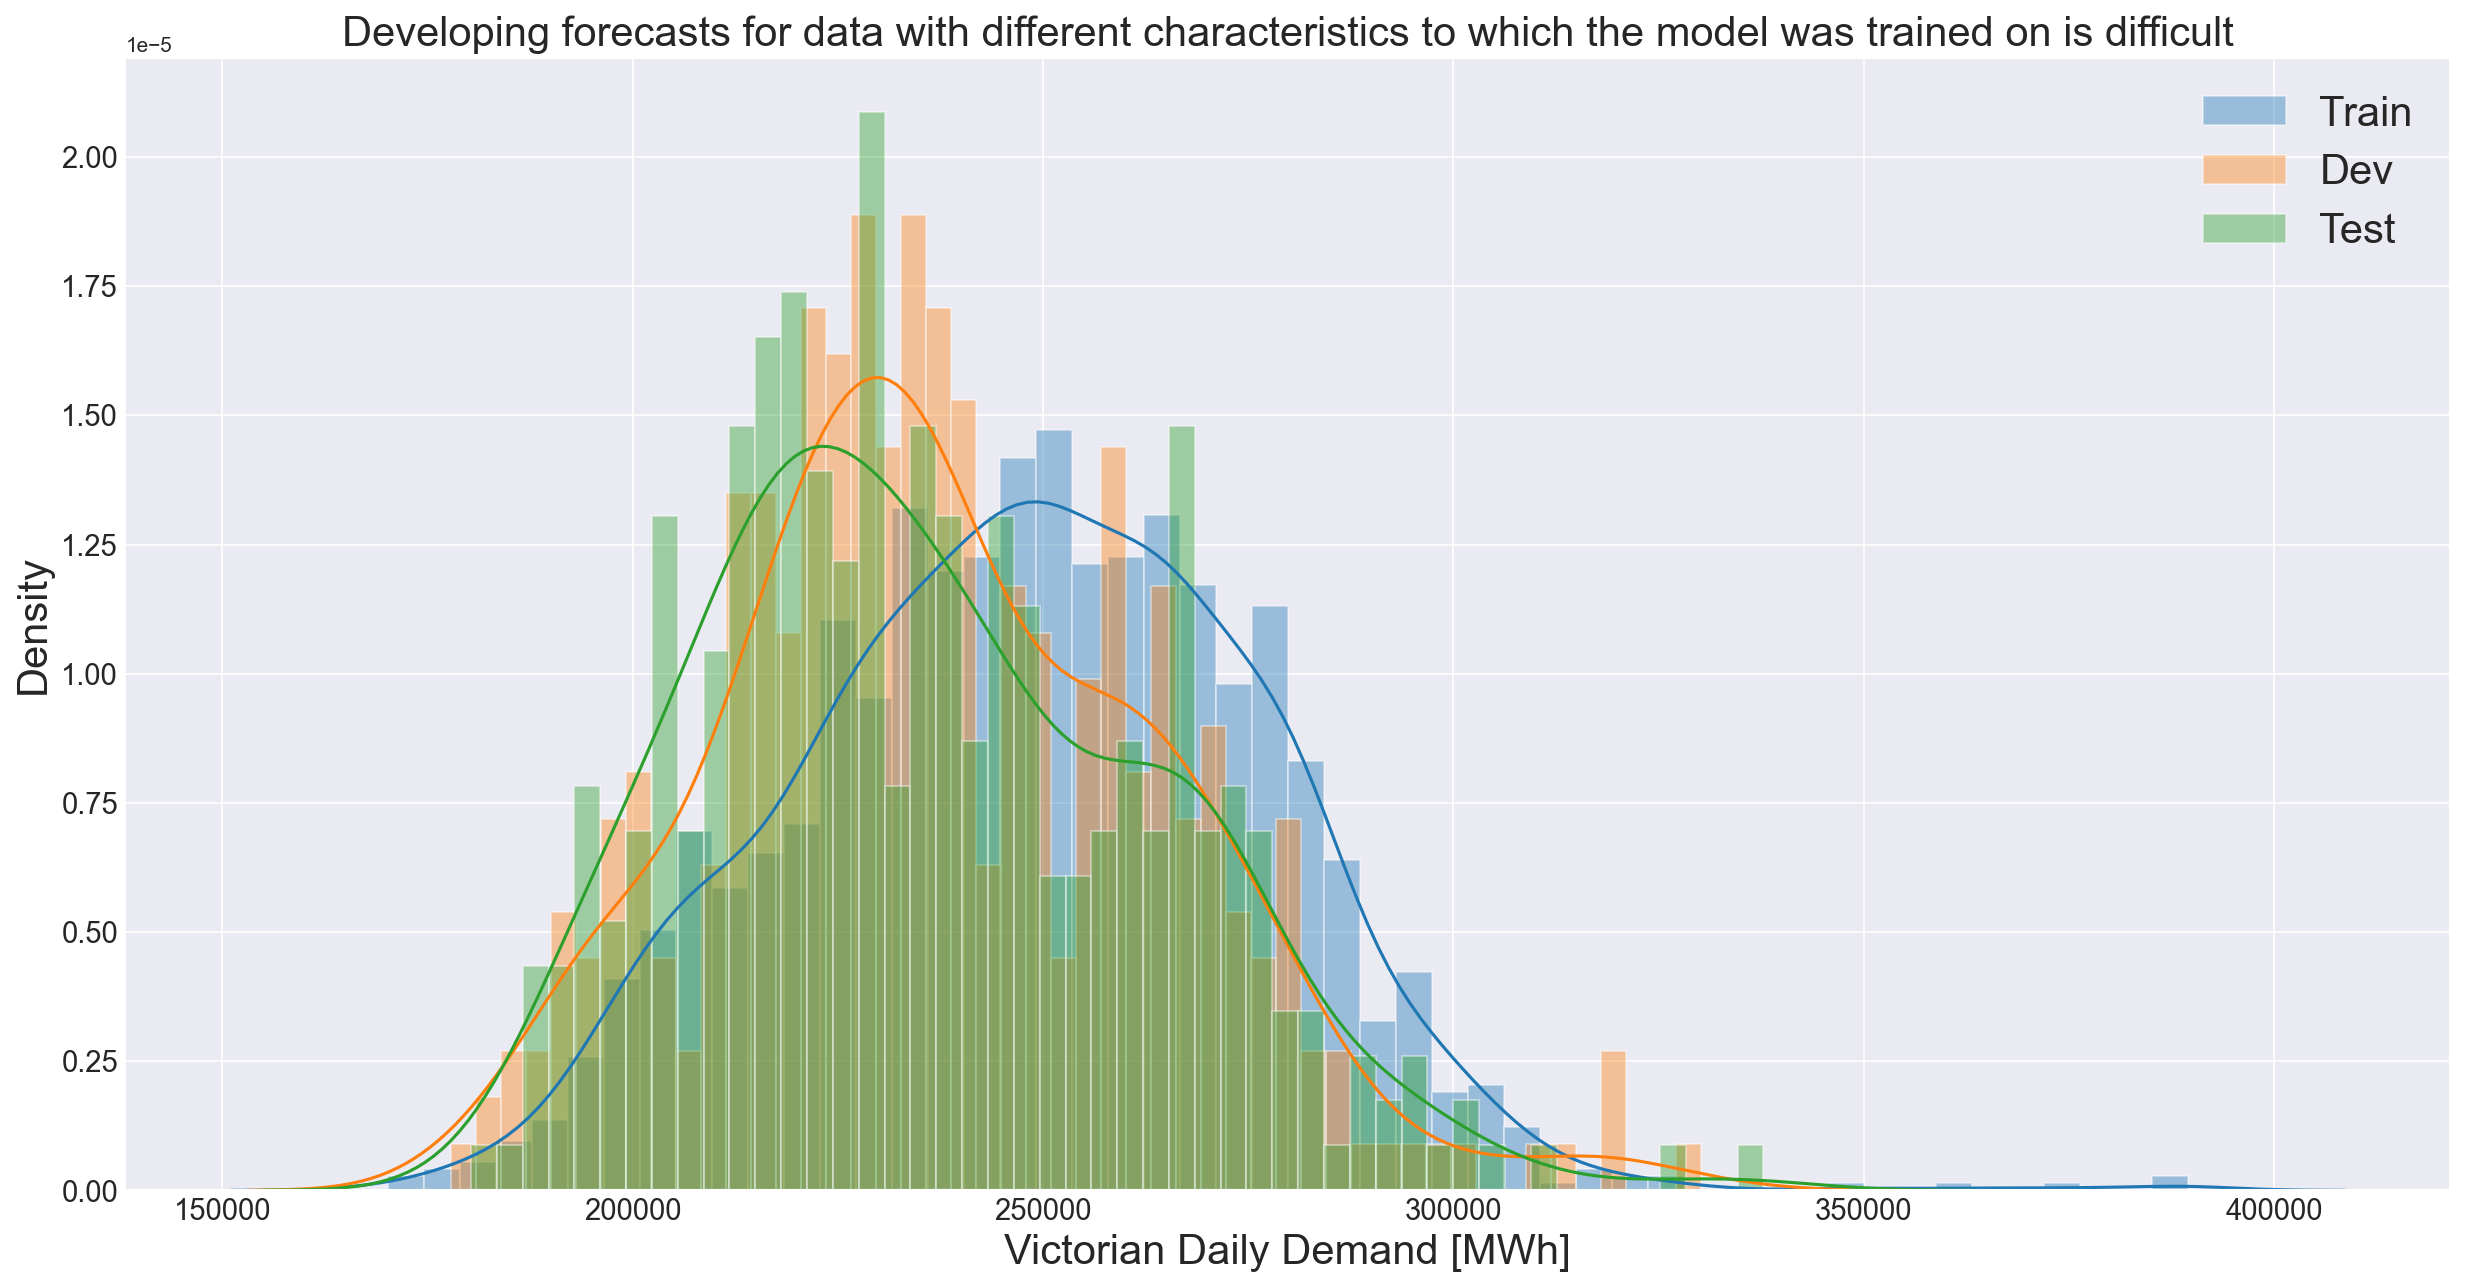
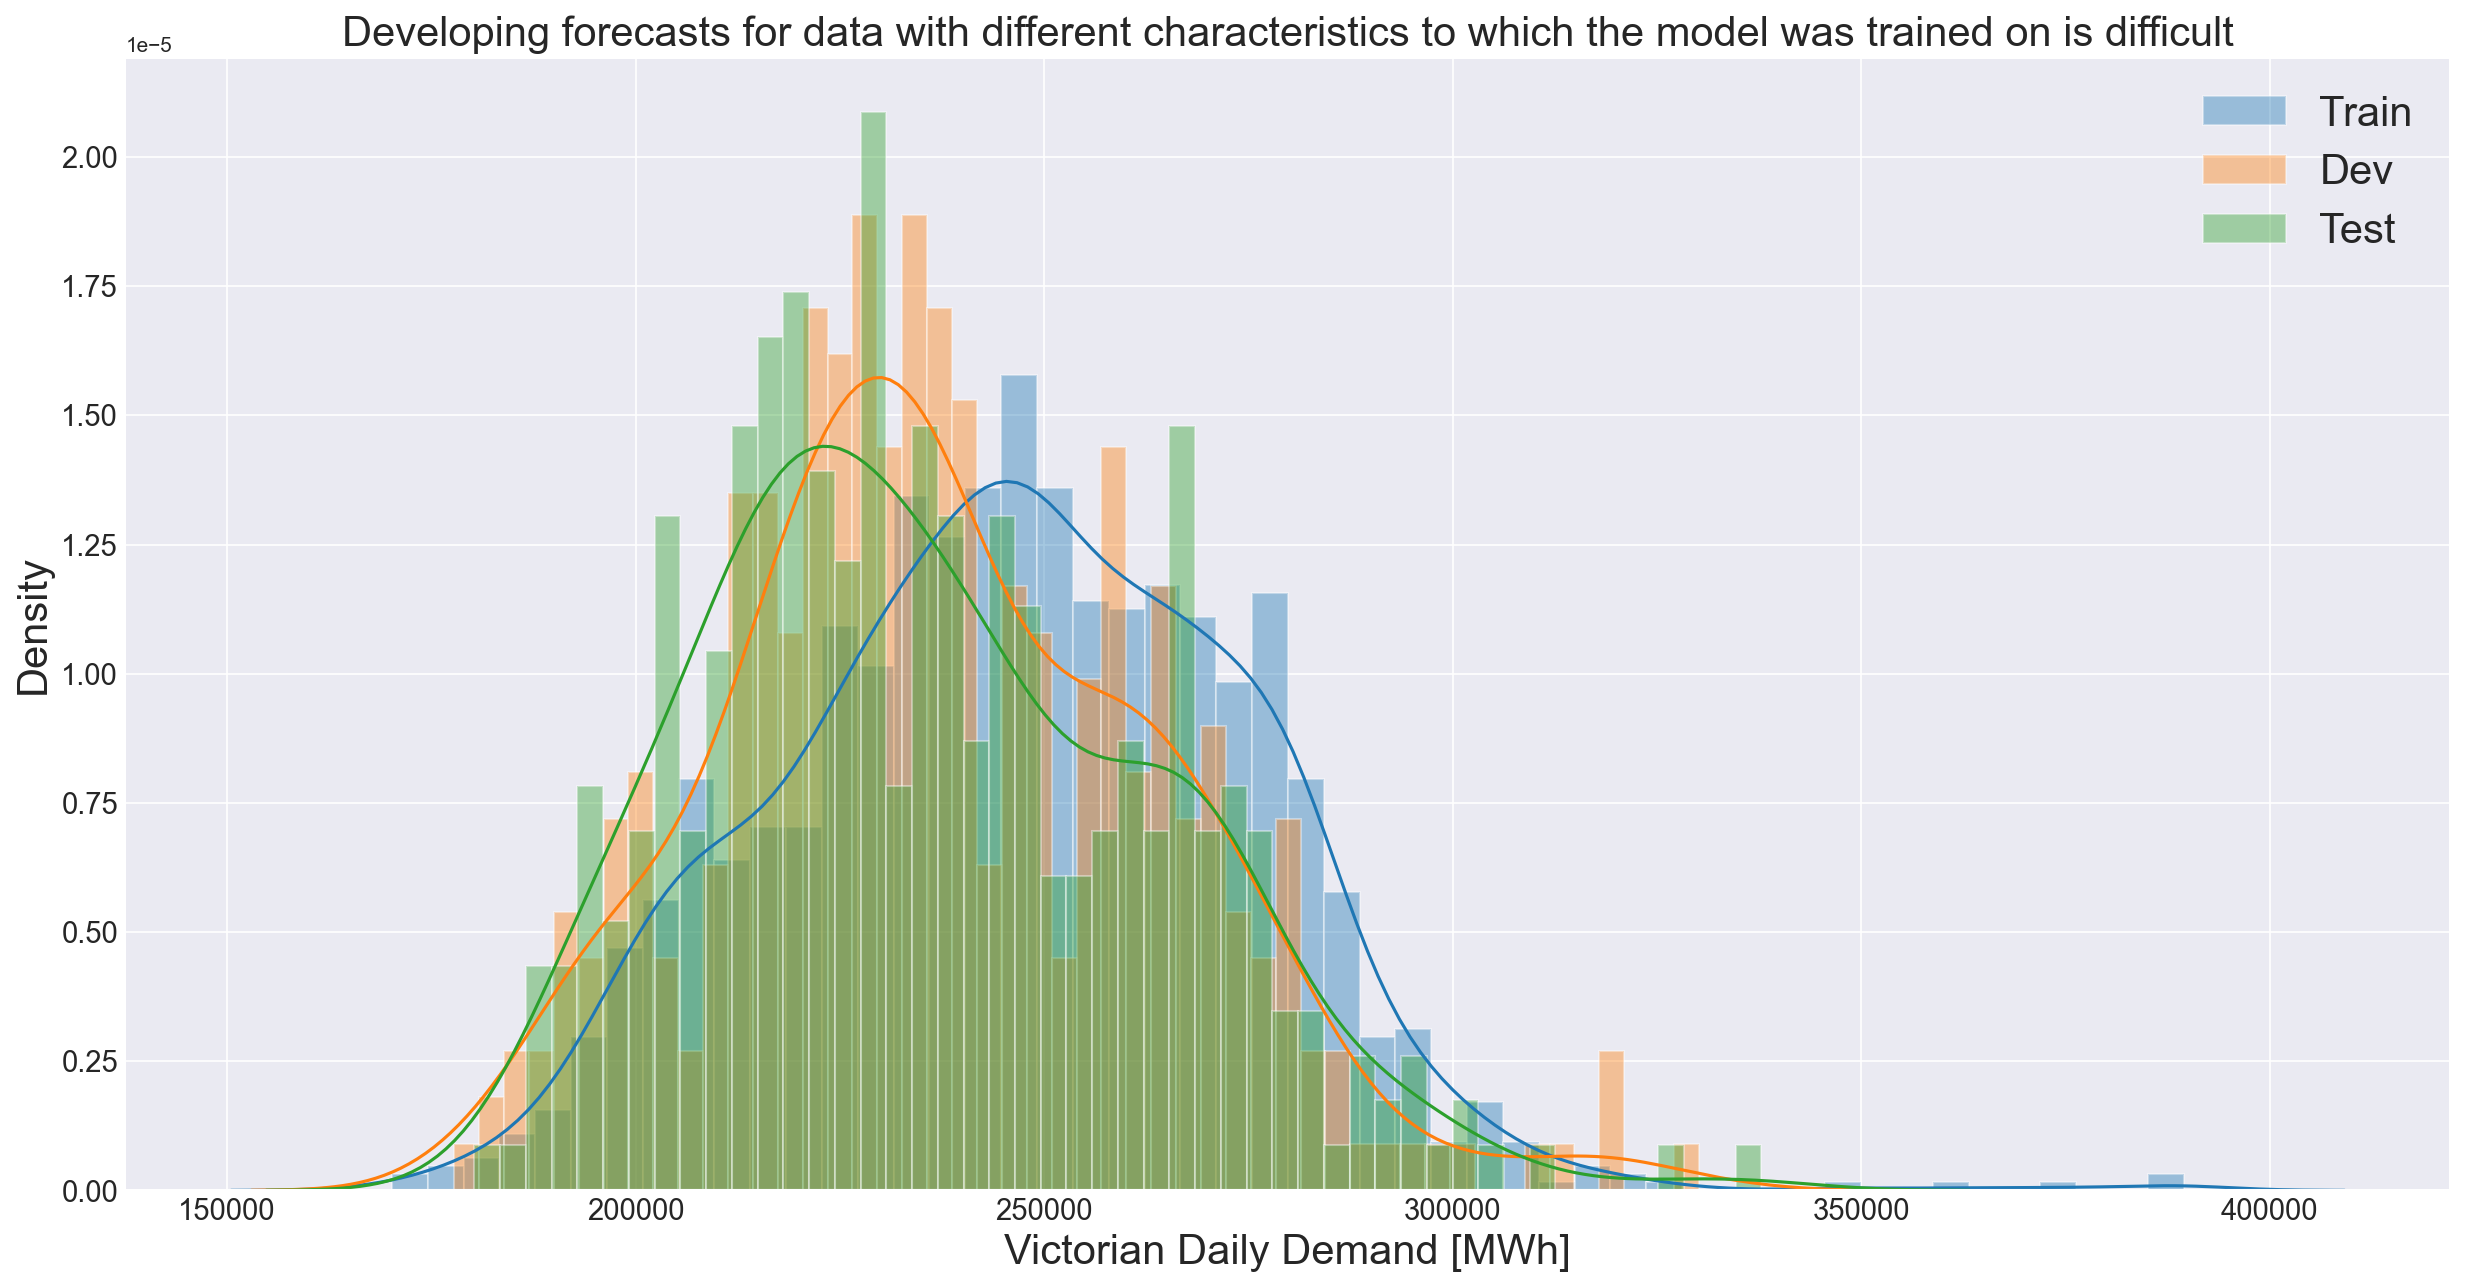
Updated blog b and c

diff --git a/post/energy-consumption-pandemic-part-c/index.html b/post/energy-consumption-pandemic-part-c/index.html
@@ -317,7 +317,7 @@
     
       <meta property="article:published_time" content="2020-10-12T00:00:00&#43;00:00">
     
-    <meta property="article:modified_time" content="2020-10-12T00:00:00&#43;00:00">
+    <meta property="article:modified_time" content="2020-10-15T00:00:00&#43;00:00">
   
 
   
@@ -350,7 +350,7 @@
   ],
   
   "datePublished": "2020-10-12T00:00:00Z",
-  "dateModified": "2020-10-12T00:00:00Z",
+  "dateModified": "2020-10-15T00:00:00Z",
   
   "author": {
     "@type": "Person",
@@ -777,8 +777,10 @@
     
     
       
+          Last updated on
+      
     
-    Oct 12, 2020
+    Oct 15, 2020
   </span>
   
 
@@ -787,7 +789,7 @@
   
   <span class="middot-divider"></span>
   <span class="article-reading-time">
-    4 min read
+    5 min read
   </span>
   
 
@@ -842,7 +844,7 @@ blog will demonstrate:</p>
 <li>The estimated operational performance of day ahead forecasts using MLP ANN&rsquo;s.</li>
 <li>Model drift in an operational setting.</li>
 <li>That tracking model performance and regularly re-training models,
-errors can be reduced by an average of <strong>9.49%</strong>.</li>
+errors can be reduced by an average of <strong>7.36%</strong>.</li>
 </ol>
 <h2 id="what-is-model-drift"><strong>What is model drift?</strong></h2>
 <p>Model drift is the degradation of forecasting capability over time. One method to tackle this problem
@@ -874,10 +876,10 @@ model to 100 we can track how each model drifts.</p>
 <figure >
 
 
-  <a data-fancybox="" href="/post/energy-consumption-pandemic-part-c/model_drift_traindevtest_hu6bda5315452f2bba43c682f7fb3d9807_429069_2000x2000_fit_lanczos_2.png" >
+  <a data-fancybox="" href="/post/energy-consumption-pandemic-part-c/model_drift_traindevtest_hud310aecc835ce9f9c7758ecea5f02ed4_827001_2000x2000_fit_lanczos_2.png" >
 
 
-  <img data-src="/post/energy-consumption-pandemic-part-c/model_drift_traindevtest_hu6bda5315452f2bba43c682f7fb3d9807_429069_2000x2000_fit_lanczos_2.png" class="lazyload" alt="" width="2776" height="1250">
+  <img data-src="/post/energy-consumption-pandemic-part-c/model_drift_traindevtest_hud310aecc835ce9f9c7758ecea5f02ed4_827001_2000x2000_fit_lanczos_2.png" class="lazyload" alt="" width="2769" height="1250">
 </a>
 
 
@@ -886,11 +888,10 @@ model to 100 we can track how each model drifts.</p>
 
 <p>Key takeaway messages from tracking model development include:</p>
 <ol>
-<li>NSW, Vic, and QLD forecasting models <strong>drift more significantly</strong> than Tas and 
-SA.</li>
+<li><strong>Drift</strong> occurs slowly there is a small increase in errors as the model progressively
+makes predictions on development and test data.</li>
 <li>Relative errors fluctuate around 100 during the training period.</li>
-<li>Model drift can <em>significantly degrade</em> forecasting performance in an
-operational setting and must be addressed.</li>
+<li>Model drift indicates how our model is likely to perform further into the future.</li>
 </ol>
 <p>At this point it is essential to ask <strong>&ldquo;what causes model drift?&quot;</strong></p>
 <h2 id="the-cause-of-model-drift-and-importance-of-train-dev-test-splits"><strong>The cause of model drift and importance of train, dev, test splits.</strong></h2>
@@ -935,10 +936,10 @@ importance of train, dev, test splits.</p>
 <figure >
 
 
-  <a data-fancybox="" href="/post/energy-consumption-pandemic-part-c/density_hu2cc116be57d158e16610d0f5cdea4993_209571_2000x2000_fit_lanczos_2.png" >
+  <a data-fancybox="" href="/post/energy-consumption-pandemic-part-c/density_hu2cc116be57d158e16610d0f5cdea4993_209589_2000x2000_fit_lanczos_2.png" >
 
 
-  <img data-src="/post/energy-consumption-pandemic-part-c/density_hu2cc116be57d158e16610d0f5cdea4993_209571_2000x2000_fit_lanczos_2.png" class="lazyload" alt="" width="2465" height="1287">
+  <img data-src="/post/energy-consumption-pandemic-part-c/density_hu2cc116be57d158e16610d0f5cdea4993_209589_2000x2000_fit_lanczos_2.png" class="lazyload" alt="" width="2465" height="1287">
 </a>
 
 
@@ -954,9 +955,9 @@ performance on an <strong>unknown</strong> data set.</li>
 <li>We are likely to see model drift in the Dev and Test sets.</li>
 </ol>
 <h2 id="estimating-operational-performance-of-mlp-anns-to-predict-electricity-demand"><strong>Estimating operational performance of MLP ANN&rsquo;s to predict electricity demand.</strong></h2>
-<p>The train and development sets were used tune hyper-parameters. Dropout of 20% was
-used to avoid over-fitting and a 20-neuron layer performed best. Using the test 
-set we can now estimate model performance in an operational setting .</p>
+<p>The train and development sets were used tune hyper-parameters. A a 6-neuron layer
+and Dropout of 8% were used to avoid over-fitting. Using the test 
+set we can now estimate model performance in an operational setting.</p>
 <p>
 
 
@@ -983,10 +984,10 @@ set we can now estimate model performance in an operational setting .</p>
 <figure >
 
 
-  <a data-fancybox="" href="/post/energy-consumption-pandemic-part-c/mape_dev_hu9c81b25529adc4c233d2787a7ad60e1d_97664_2000x2000_fit_lanczos_2.png" >
+  <a data-fancybox="" href="/post/energy-consumption-pandemic-part-c/mape_dev_hu38743e526657035213a1cfc331cff797_97314_2000x2000_fit_lanczos_2.png" >
 
 
-  <img data-src="/post/energy-consumption-pandemic-part-c/mape_dev_hu9c81b25529adc4c233d2787a7ad60e1d_97664_2000x2000_fit_lanczos_2.png" class="lazyload" alt="" width="2424" height="1250">
+  <img data-src="/post/energy-consumption-pandemic-part-c/mape_dev_hu38743e526657035213a1cfc331cff797_97314_2000x2000_fit_lanczos_2.png" class="lazyload" alt="" width="2424" height="1250">
 </a>
 
 
@@ -1033,10 +1034,10 @@ will be more prone to errors.</p>
 <figure >
 
 
-  <a data-fancybox="" href="/post/energy-consumption-pandemic-part-c/model_drift_forecast_hu08c883a54de4c0cf7e4b9c0eefbf8cdb_416139_2000x2000_fit_lanczos_2.png" >
+  <a data-fancybox="" href="/post/energy-consumption-pandemic-part-c/model_drift_forecast_hu243a672745015b6d1f88b2442d26b6ea_1012115_2000x2000_fit_lanczos_2.png" >
 
 
-  <img data-src="/post/energy-consumption-pandemic-part-c/model_drift_forecast_hu08c883a54de4c0cf7e4b9c0eefbf8cdb_416139_2000x2000_fit_lanczos_2.png" class="lazyload" alt="" width="2820" height="1243">
+  <img data-src="/post/energy-consumption-pandemic-part-c/model_drift_forecast_hu243a672745015b6d1f88b2442d26b6ea_1012115_2000x2000_fit_lanczos_2.png" class="lazyload" alt="" width="2820" height="1243">
 </a>
 
 
@@ -1045,9 +1046,10 @@ will be more prone to errors.</p>
 
 <p>The key takeaway messages from reviewing model performance are:</p>
 <ol>
-<li>When restrictions were put in place relative errors <strong>do not change significantly</strong>.</li>
-<li>The models are <strong>quite susceptible to drift</strong>; this indicates that electricity demand
-patterns are quite different for training and operational data sets.</li>
+<li>Victorian electricity demand forecasts tend to drift more than others. Is this a result
+of tighter restrictions?</li>
+<li>Errors tend to have a seasonal component, this indicates further improvements can be made to
+the model and that we cannot assume a jump in errors is caused by tighter restrictions.</li>
 <li>More pronounced changes may be observable at the 30 min timescale.</li>
 </ol>
 <h2 id="reduction-in-operational-forecast-errors-by-tracking-model-performance-and-re-training-models"><strong>Reduction in operational forecast errors by tracking model performance and re-training models.</strong></h2>
@@ -1082,10 +1084,10 @@ of leaving them to drift.</p>
 <figure >
 
 
-  <a data-fancybox="" href="/post/energy-consumption-pandemic-part-c/mape_forecast_hu8e0d5073779678850da5aec551805891_119829_2000x2000_fit_lanczos_2.png" >
+  <a data-fancybox="" href="/post/energy-consumption-pandemic-part-c/mape_forecast_hu128da97d4a693d6cfcc9aa6861169c15_120416_2000x2000_fit_lanczos_2.png" >
 
 
-  <img data-src="/post/energy-consumption-pandemic-part-c/mape_forecast_hu8e0d5073779678850da5aec551805891_119829_2000x2000_fit_lanczos_2.png" class="lazyload" alt="" width="2424" height="1250">
+  <img data-src="/post/energy-consumption-pandemic-part-c/mape_forecast_hu128da97d4a693d6cfcc9aa6861169c15_120416_2000x2000_fit_lanczos_2.png" class="lazyload" alt="" width="2424" height="1250">
 </a>
 
 
@@ -1096,7 +1098,7 @@ of leaving them to drift.</p>
 <ol>
 <li>There is no crystal ball that allows us to predict the future.</li>
 <li>By tracking model drift and re-training our models, reductions in operational forecast errors of
-<strong>9.49%</strong> can be realised.</li>
+<strong>7.36%</strong> can be realised.</li>
 <li>Operational performance is similar to that estimated earlier.</li>
 </ol>
 <h2 id="summary">Summary</h2>

diff --git a/post/energy-consumption-pandemic-part-b/index.html b/post/energy-consumption-pandemic-part-b/index.html
@@ -317,7 +317,7 @@
     
       <meta property="article:published_time" content="2020-10-05T00:00:00&#43;00:00">
     
-    <meta property="article:modified_time" content="2020-10-05T00:00:00&#43;00:00">
+    <meta property="article:modified_time" content="2020-10-15T00:00:00&#43;00:00">
   
 
   
@@ -350,7 +350,7 @@
   ],
   
   "datePublished": "2020-10-05T00:00:00Z",
-  "dateModified": "2020-10-05T00:00:00Z",
+  "dateModified": "2020-10-15T00:00:00Z",
   
   "author": {
     "@type": "Person",
@@ -777,8 +777,10 @@
     
     
       
+          Last updated on
+      
     
-    Oct 5, 2020
+    Oct 15, 2020
   </span>
   
 
@@ -878,10 +880,10 @@ complexity grows.</p>
 <figure >
 
 
-  <a data-fancybox="" href="/post/energy-consumption-pandemic-part-b/model_track_hu1ddcf30f15b30bea041f1c8e13e217d9_123517_2000x2000_fit_lanczos_2.png" >
+  <a data-fancybox="" href="/post/energy-consumption-pandemic-part-b/model_track_hud89c1cd304a4592aaacaffd37dba6de6_122726_2000x2000_fit_lanczos_2.png" >
 
 
-  <img data-src="/post/energy-consumption-pandemic-part-b/model_track_hu1ddcf30f15b30bea041f1c8e13e217d9_123517_2000x2000_fit_lanczos_2.png" class="lazyload" alt="" width="1833" height="742">
+  <img data-src="/post/energy-consumption-pandemic-part-b/model_track_hud89c1cd304a4592aaacaffd37dba6de6_122726_2000x2000_fit_lanczos_2.png" class="lazyload" alt="" width="1833" height="742">
 </a>
 
 
@@ -949,7 +951,7 @@ an appropriate model.</p>
 include:</p>
 <ol>
 <li>From 2014 to 2019 there is a slight <strong>downward trend</strong> in electricity demand,
-this may be a result of <strong>electricity efficiency</strong> measures.</li>
+this may be a result of <strong>electricity efficiency</strong> measures or an <strong>uptake in solar panels</strong>.</li>
 <li>There is a clear yearly seasonal component that is likely to be a result of
 seasonal fluctuations in <strong>temperature</strong> and subsequent heating and cooling demand.</li>
 <li>The residuals show that errors tend to <strong>peak</strong> at the beginning of the year.</li>
@@ -986,10 +988,10 @@ trend we use the Holt - Winters triple exponential smoother as our benchmark.</p
 <figure >
 
 
-  <a data-fancybox="" href="/post/energy-consumption-pandemic-part-b/VIC_ETS_hu728e599515bb3c2864a618ff7962ae2f_542176_2000x2000_fit_lanczos_2.png" >
+  <a data-fancybox="" href="/post/energy-consumption-pandemic-part-b/VIC_ETS_hu728e599515bb3c2864a618ff7962ae2f_529380_2000x2000_fit_lanczos_2.png" >
 
 
-  <img data-src="/post/energy-consumption-pandemic-part-b/VIC_ETS_hu728e599515bb3c2864a618ff7962ae2f_542176_2000x2000_fit_lanczos_2.png" class="lazyload" alt="" width="1931" height="1460">
+  <img data-src="/post/energy-consumption-pandemic-part-b/VIC_ETS_hu728e599515bb3c2864a618ff7962ae2f_529380_2000x2000_fit_lanczos_2.png" class="lazyload" alt="" width="1931" height="1460">
 </a>
 
 
@@ -1034,10 +1036,10 @@ It is assumed that we will have a good estimate of the next day&rsquo;s weather.
 <figure >
 
 
-  <a data-fancybox="" href="/post/energy-consumption-pandemic-part-b/LSTM_weather_huf44491e25a06a8ebffd69839f7bb1b4a_489688_2000x2000_fit_lanczos_2.png" >
+  <a data-fancybox="" href="/post/energy-consumption-pandemic-part-b/LSTM_weather_hufc0f4494b82df1cc5290833d297c20b9_495807_2000x2000_fit_lanczos_2.png" >
 
 
-  <img data-src="/post/energy-consumption-pandemic-part-b/LSTM_weather_huf44491e25a06a8ebffd69839f7bb1b4a_489688_2000x2000_fit_lanczos_2.png" class="lazyload" alt="" width="1931" height="1460">
+  <img data-src="/post/energy-consumption-pandemic-part-b/LSTM_weather_hufc0f4494b82df1cc5290833d297c20b9_495807_2000x2000_fit_lanczos_2.png" class="lazyload" alt="" width="1931" height="1460">
 </a>
 
 
@@ -1052,9 +1054,9 @@ peaks are likely to be around holiday periods.</li>
 <li>The residuals in development still show a <strong>weekly pattern</strong>.</li>
 </ol>
 <h2 id="multilayer-perceptron-artificial-neural-network"><strong>Multilayer Perceptron Artificial Neural Network</strong></h2>
-<p>Instead of perceiving electricity demand as a time series model we can develop a
-model which forecasts electricity demand as a function of the past 7 days for 
-weather, day of the week and year, and holiday period. The MLP ANN is well
+<p>Instead of perceiving electricity demand as a time series model we can develop a 
+causal model which forecasts electricity demand as a function of the past 7 days for 
+weather, day of the week and year, holiday period and trend. The MLP ANN is well
 suited to this task.</p>
 
 

diff --git a/index.html b/index.html
@@ -1094,8 +1094,10 @@ exercise, and culture associated with BJJ.</p>
     
     
       
+          Last updated on
+      
     
-    Oct 12, 2020
+    Oct 15, 2020
   </span>
   
 
@@ -1104,7 +1106,7 @@ exercise, and culture associated with BJJ.</p>
   
   <span class="middot-divider"></span>
   <span class="article-reading-time">
-    4 min read
+    5 min read
   </span>
   
 
@@ -1186,8 +1188,10 @@ exercise, and culture associated with BJJ.</p>
     
     
       
+          Last updated on
+      
     
-    Oct 5, 2020
+    Oct 15, 2020
   </span>
   
 

diff --git a/post/index.html b/post/index.html
@@ -765,8 +765,10 @@
     
     
       
+          Last updated on
+      
     
-    Oct 12, 2020
+    Oct 15, 2020
   </span>
   
 
@@ -775,7 +777,7 @@
   
   <span class="middot-divider"></span>
   <span class="article-reading-time">
-    4 min read
+    5 min read
   </span>
   
 
@@ -857,8 +859,10 @@
     
     
       
+          Last updated on
+      
     
-    Oct 5, 2020
+    Oct 15, 2020
   </span>
   
 
